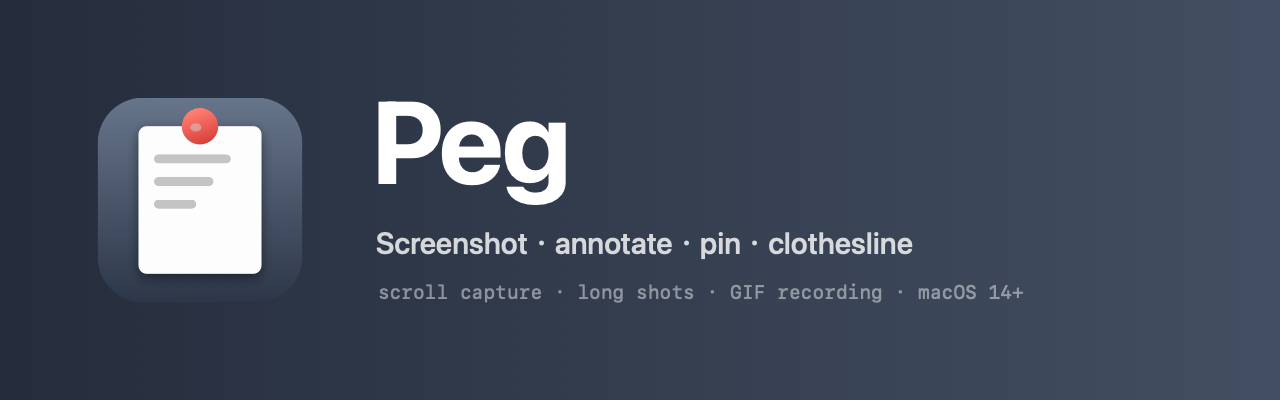
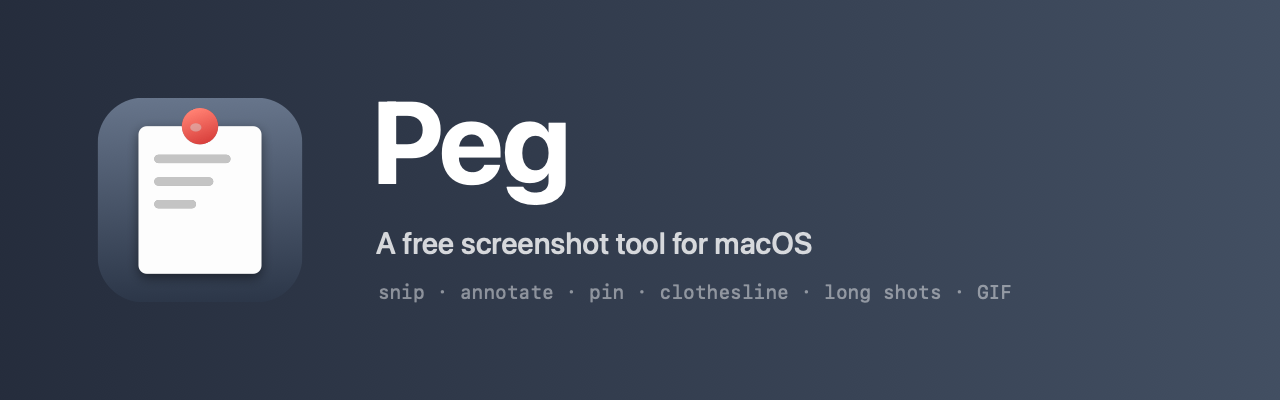
Reposition as a free macOS screenshot tool
Lead with what it is instead of one borrowed feature, and give the clothesline
its credit (the idea comes from Tendedero).

Changed region(s): [[0.2812, 0.57, 0.7188, 0.66], [0.3125, 0.69, 0.8125, 0.75]]

diff --git a/Tools/MakeBanner/main.swift b/Tools/MakeBanner/main.swift
@@ -34,12 +34,12 @@ NSAttributedString(string: "Peg", attributes: [
     .kern: -2
 ]).draw(at: NSPoint(x: 372, y: 192))
 
-NSAttributedString(string: "Screenshot · annotate · pin · clothesline", attributes: [
+NSAttributedString(string: "A free screenshot tool for macOS", attributes: [
     .font: NSFont.systemFont(ofSize: 30, weight: .medium),
     .foregroundColor: NSColor.white.withAlphaComponent(0.80)
 ]).draw(at: NSPoint(x: 376, y: 140))
 
-NSAttributedString(string: "scroll capture · long shots · GIF recording · macOS 14+", attributes: [
+NSAttributedString(string: "snip · annotate · pin · clothesline · long shots · GIF", attributes: [
     .font: NSFont.monospacedSystemFont(ofSize: 19, weight: .regular),
     .foregroundColor: NSColor.white.withAlphaComponent(0.45)
 ]).draw(at: NSPoint(x: 378, y: 96))

diff --git a/README.md b/README.md
@@ -1,11 +1,11 @@
 <p align="center">
-  <img src="docs/banner.png" alt="Peg — screenshot, annotate, pin, clothesline" width="100%">
+  <img src="docs/banner.png" alt="Peg — a free screenshot tool for macOS" width="100%">
 </p>
 
 <h1 align="center">Peg</h1>
 
 <p align="center">
-  A macOS screenshot tool that keeps your captures on a clothesline.
+  A free, open-source screenshot tool for macOS.
 </p>
 
 <p align="center">
@@ -19,12 +19,13 @@
   <a href="README.zh-CN.md">中文说明</a>
 </p>
 
-Peg pins recent screenshots to a rope under the menu bar — like a clothesline.
-Grab a shot, draw on it, keep it on screen, stitch a long page together, or
-record a short GIF; everything lands on the line and stays a click away.
+Peg sits in the menu bar and does the everyday screenshot work: frame a
+region or a window, mark it up, keep it floating, stitch a long page, record a
+short GIF. Recent shots hang on a line under the menu bar — a clothesline,
+borrowed from the idea in [Tendedero](https://github.com/mrthomaswebb/tendedero).
 
-Built with AppKit only. No Electron, no account, no network, no analytics, no
-auto-updater. Screen Recording is the only permission it asks for.
+Built with AppKit only. Free to use and modify, no account, no network, no
+analytics, no auto-updater. Screen Recording is the only permission it asks for.
 
 ## Features
 
@@ -35,7 +36,7 @@ auto-updater. Screen Recording is the only permission it asks for.
 | **Inline annotation** | 8 tools (rectangle, ellipse, arrow, pen, marker, text, mosaic, blur) drawn straight onto the frozen screen. What you draw is what you get. |
 | **Scroll capture** | Manually scroll a region; frames are aligned by row fingerprints and stitched, both downwards and upwards. |
 | **GIF recording** | Frame a region, record up to 20 s at 12 fps, stop with the same shortcut. A red frame shows exactly what is being recorded. |
-| **Clothesline** | Recent shots hang from a slowly rippling rope with a timestamp under each sheet; hover for a preview, click to copy, drag anywhere, double-click to open. |
+| **Clothesline** | Recent shots hang from a slowly rippling rope with a timestamp under each sheet; hover for a preview, click to copy, drag anywhere, double-click to open. The clothesline idea comes from Tendedero. |
 | **Pins** | Any shot can float above other windows, movable and zoomable, with a shadow and outline so it never melts into the wallpaper. |
 | **History** | `⌃⌥H` browses everything on disk with search, annotate, pin and trash. |
 | **Settings** | Save folder, PNG/JPEG + quality, auto-copy, history retention, rounded corners, dock icon. |
